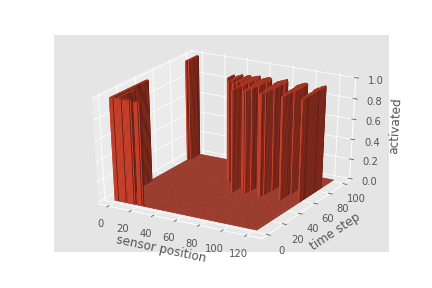
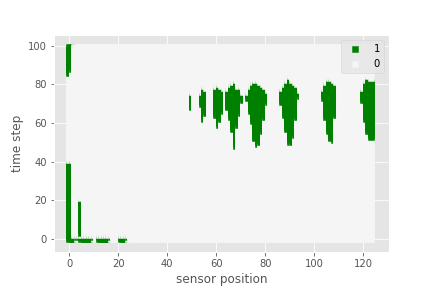
changed to 2d plots of speech data

diff --git a/index.html b/index.html
@@ -36,16 +36,23 @@
     </div>
     <div class="info">
         <h2>Data</h2>
-        <p>The SmartPalate device consists of 124 capacitive sensors and each sensor reads as a 1 or a 0 at every time step. There are orginally
-        100 time steps for each sample but we reduced each sample down to just 15. </p>
+        <p>We retrieved our data sets from the Contextual Computing Group at Georgia Tech ran by Dr. Thad Starner. The data
+            consists of sensor information from 20 samples of each letter in the english alphabet. The SmartPalate device
+            is made up of 124 capacitive sensors and each sensor reads as a 1 or a 0 at every time step. Therefore, each sample
+            is a text file with 12400 ones and zeros. There are originally 100 time steps for each sample but we will reduce the
+            number of time steps for each sample. </p>
         <div class="figures">
-            <div class="figure">
-                <img src="./res/a_data.png" height="450" width="450">
+            <div class="inlineFigure">
+                <img src="./res/a_data.png">
                 <p>Figure 2-1: 3D Bar Plot of the first sample of the letter "A"</p>
             </div>
-            <div class="figure">
-                <img src="./res/b_data.png" height="450" width="450">
+            <div class="inlineFigure">
+                <img src="./res/b_data.png">
                 <p>Figure 2-2: 3D Bar Plot of the first sample of the letter "B"</p>
+            </div>
+            <div class="inlineFigure">
+                <img src="./res/w_data.png">
+                <p>Figure 2-3: 3D Bar Plot of the first sample of the letter "W"</p>
             </div>
         </div>
     </div>

diff --git a/index.css b/index.css
@@ -8,16 +8,42 @@ body {
     padding: 0;
 }
 
-.info {
+.info p {
+    padding-left: 20%;
+    padding-right: 20%;
+}
+
+.info h2 {
     padding-left: 20%;
     padding-right: 20%;
 }
 
 .figures {
     display: flex;
-    width: 100%;
+    width: 80%;
+    margin-right: auto;
+    margin-left: auto;
 }
 .figure {
+    width: 100%;
+    height: 100%;
+    text-align: center;
+    display: inline-block;
+    margin-left: auto;
+    margin-right: auto;
+}
+
+.figure img {
+    width: 25%;
+}
+
+.inlineFigure img {
+    width: 75%;
+}
+
+.inlineFigure {
+    width: 100%;
+    height: 100%;
     text-align: center;
     display: inline-block;
     margin-left: auto;
